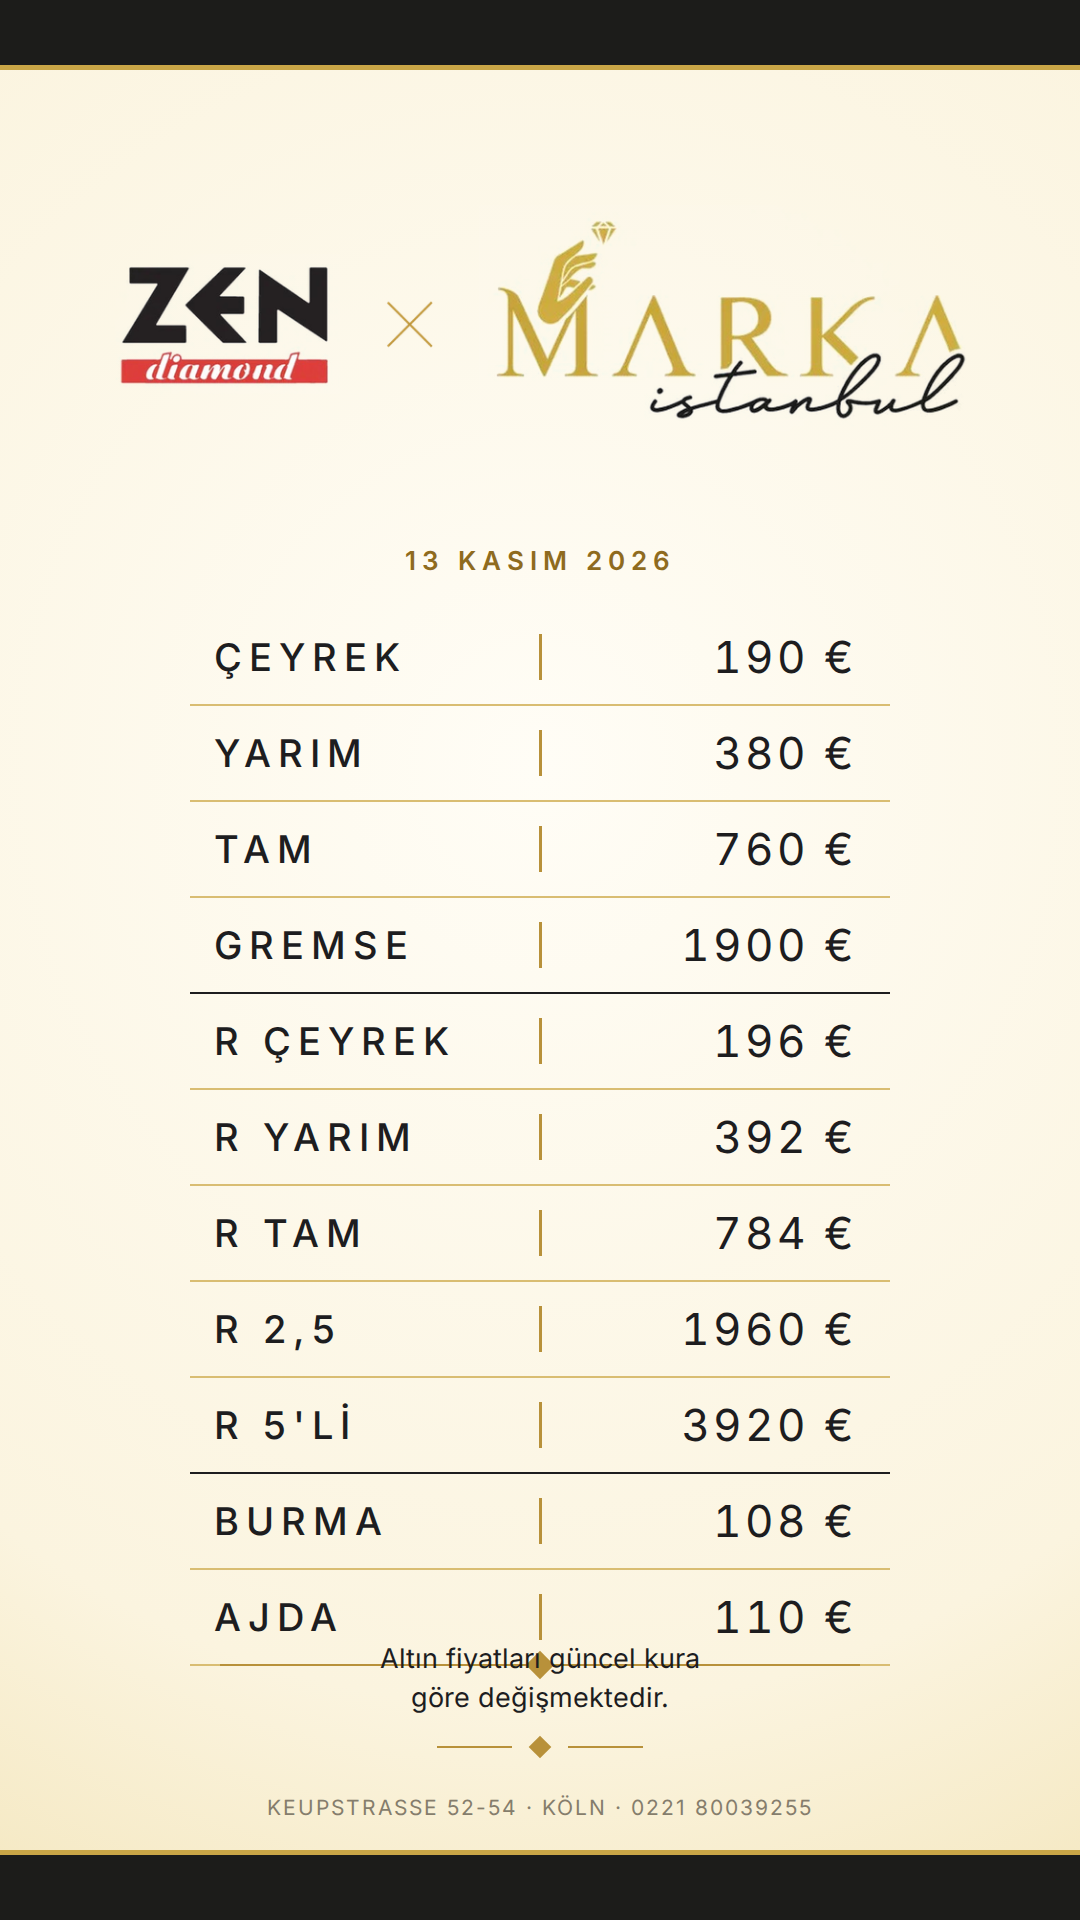
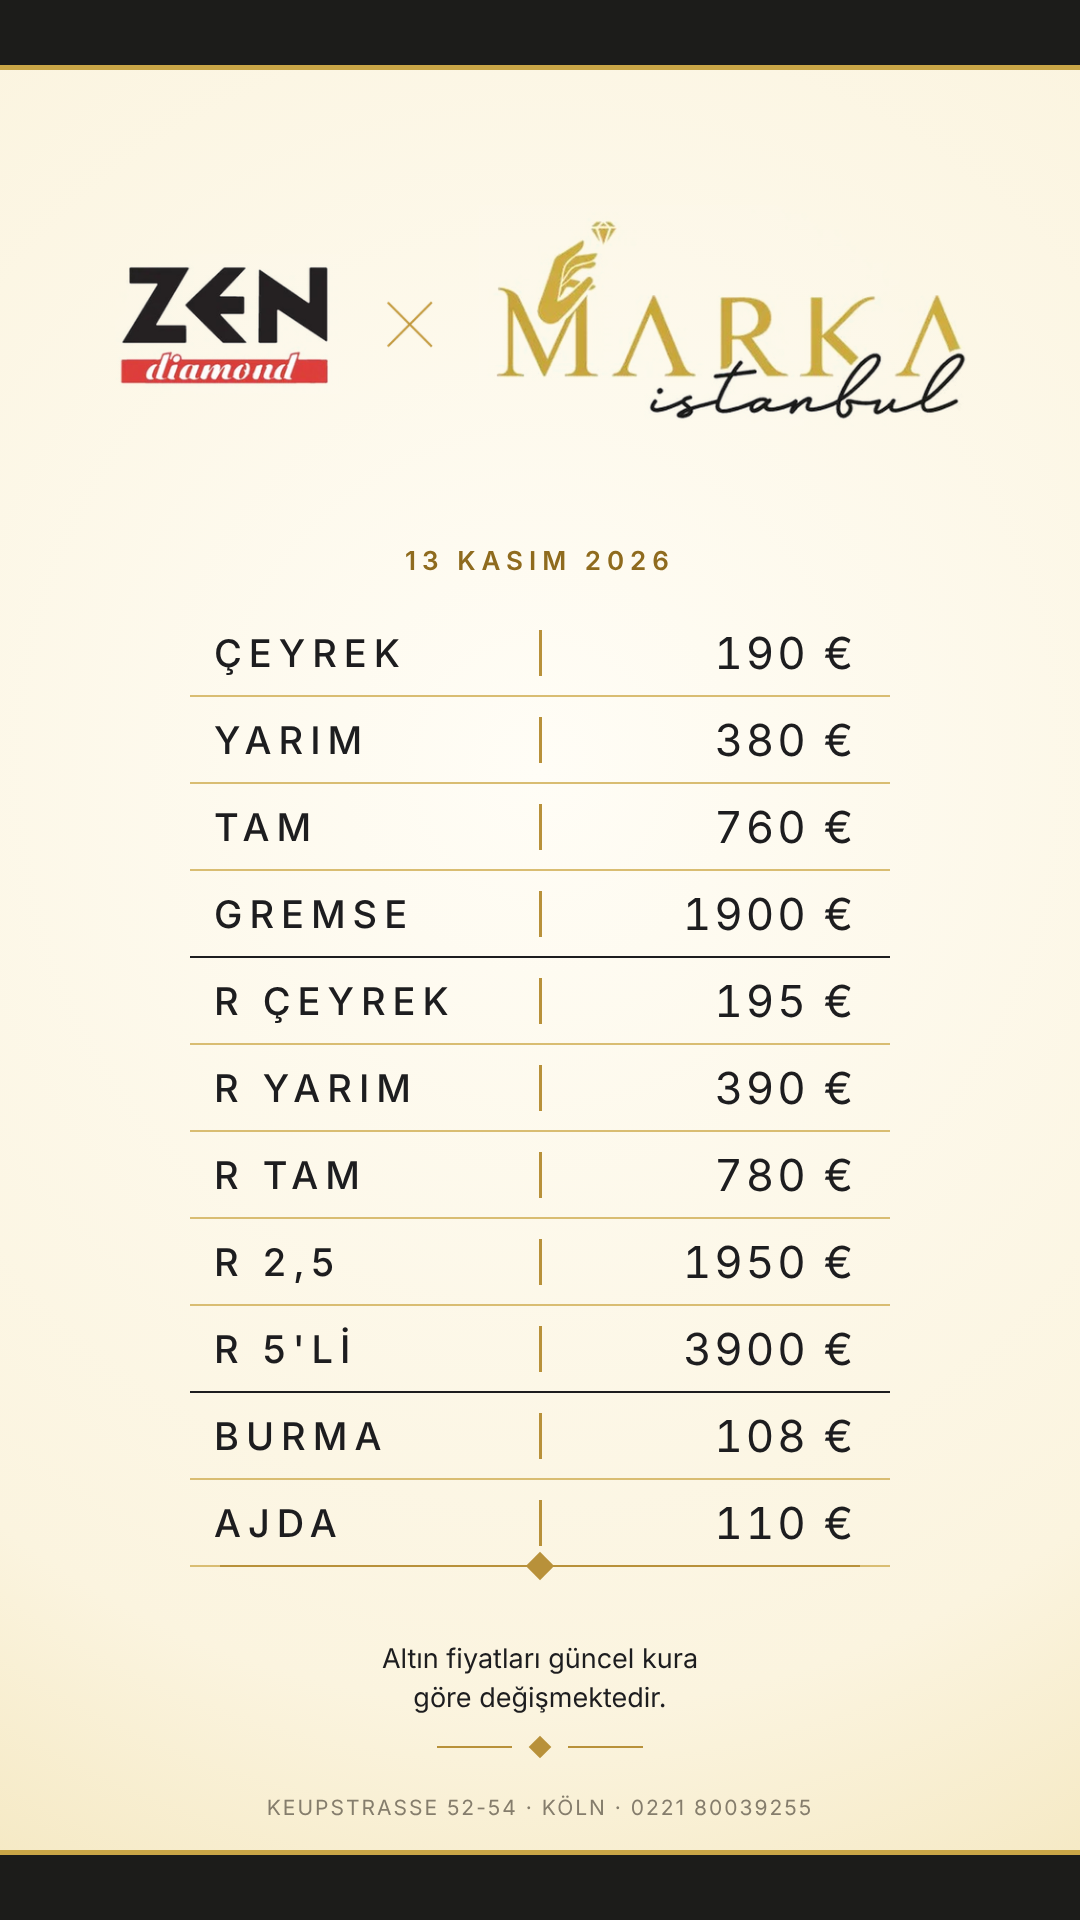
Günlük görsel: üst üste binme düzeltildi
Liste artık alttaki yazının üstünde biter; satır yüksekliği ve yazı boyutu
ürün sayısına göre ayarlanır, uzun isimler tek satırda küçülür. Tüm temalarda
denendi. Bugünün görseli yeniden oluşturuldu.

Claude-Session: https://claude.ai/code/session_01HmmbUKGBd85C163NoPa596

diff --git a/markaistanbul/pano.html b/markaistanbul/pano.html
@@ -23,9 +23,9 @@ body{font-family:Inter,system-ui,sans-serif;color:#1d1d1f;-webkit-font-smoothing
 .list{position:absolute;left:190px;right:190px;top:610px}
 .r{display:grid;grid-template-columns:1fr 3px 1fr;align-items:center;height:103px;border-bottom:2px solid #d9bd72}
 .r.end{border-bottom:2.5px solid #1d1d1f}
-.r .n{font-size:38px;letter-spacing:7px;padding-left:24px;font-weight:500}
+.r .n{font-size:38px;letter-spacing:7px;padding-left:24px;font-weight:500;white-space:nowrap;overflow:hidden}
 .r .b{width:3px;height:46px;background:#b8913a;justify-self:center}
-.r .v{text-align:right;font-size:44px;letter-spacing:3px;padding-right:34px;font-variant-numeric:tabular-nums}
+.r .v{white-space:nowrap;text-align:right;font-size:44px;letter-spacing:3px;padding-right:34px;font-variant-numeric:tabular-nums}
 .orn{display:flex;align-items:center;justify-content:center;margin-top:0}
 .orn i{display:block;height:2px;background:#b8913a}
 .orn b{display:block;width:20px;height:20px;background:#b8913a;transform:rotate(45deg);margin:0 2px}
@@ -64,13 +64,29 @@ async function spot(cfg){
     const end = rows[i+1] && rows[i+1].grp!==r.grp;
     return `<div class="r${end?" end":""}"><div class="n">${r.n.toLocaleUpperCase("tr-TR")}</div><div class="b"></div><div class="v">${Math.floor(r.v)} €</div></div>`;
   }).join("") + `<div class="orn" style="margin-top:-11px"><i style="width:44%"></i><b></b><i style="width:44%"></i></div>`;
-  // Listenhöhe anpassen, falls mehr/weniger Zeilen
-  const h = Math.min(103, Math.floor(1060/rows.length));
-  document.querySelectorAll(".r").forEach(e=>e.style.height=h+"px");
+  window.__fit = ()=>{
+    // Satır yüksekliği: liste, alttaki yazının (foot) üstünde bitmeli – üst üste binme olmasın
+    const pr = document.getElementById("pano").getBoundingClientRect();
+    const footTop = document.querySelector(".foot").getBoundingClientRect().top - pr.top;
+    // Tarih ve tema yazısı logonun altında, liste tarihin altında başlar
+    const dateEl = document.getElementById("date"), listEl = document.getElementById("list");
+    const top = Math.max(610, Math.ceil(dateEl.getBoundingClientRect().bottom - pr.top) + 28);
+    listEl.style.top = top + "px";
+    const h = Math.max(40, Math.min(103, Math.floor((footTop - 44 - top - 20) / rows.length)));
+    const k = Math.min(1, h/72);
+    document.querySelectorAll(".r").forEach(e=>{ e.style.height = h+"px";
+      const n = e.querySelector(".n"), v = e.querySelector(".v");
+      n.style.fontSize = (38*k)+"px"; v.style.fontSize = (44*k)+"px"; e.querySelector(".b").style.height = Math.round(46*k)+"px";
+      // Uzun isim tek satırda kalsın: sığana kadar küçült
+      let fs = 38*k, ls = 7; while (n.scrollWidth > n.clientWidth && fs > 18){ fs -= 1; ls = Math.max(1, ls-.4); n.style.fontSize = fs+"px"; n.style.letterSpacing = ls+"px"; }
+    });
+  };
   document.getElementById("date").textContent = new Date().toLocaleDateString("tr-TR",{day:"numeric",month:"long",year:"numeric",timeZone:"Europe/Berlin"});
   if (window.ZTema){ ZTema.apply(cfg.tema||"zen",{statik:true, panoStyle:"position:absolute;left:0;right:0;top:455px;font-size:38px;gap:18px"});
     const t=ZTema.TEMALAR[ZTema.get()]; document.querySelectorAll(".band").forEach(b=>{b.style.background=t.band;b.style.borderColor=t.line;}); document.querySelector(".date").style.color=t.acc==="#b8913a"?"":t.acc; }
   await document.fonts.ready;
+  await Promise.all([...document.images].map(i=>i.complete ? 0 : new Promise(r=>{ i.onload = i.onerror = r; })));
+  window.__fit();
   document.body.dataset.ready = "1";
 })();
 </script>

diff --git a/markaistanbul/sw.js b/markaistanbul/sw.js
@@ -1,4 +1,4 @@
-const V = "ceyrekmatik-v23";
+const V = "ceyrekmatik-v24";
 const SHELL = ["./", "index.html", "manifest.webmanifest", "icon-192.png", "icon-512.png", "icon-maskable.png", "logo.png", "lockup.png", "tema.js", "config.json", "price.json", "impressum.html", "fonts/fonts.css", "urun/ziynet.webp", "urun/resat.webp", "urun/burma.webp", "urun/ajda.webp"];
 self.addEventListener("install", e => { e.waitUntil(caches.open(V).then(c => c.addAll(SHELL))); self.skipWaiting(); });
 self.addEventListener("activate", e => { e.waitUntil(caches.keys().then(ks => Promise.all(ks.filter(k => k !== V).map(k => caches.delete(k))))); self.clients.claim(); });
